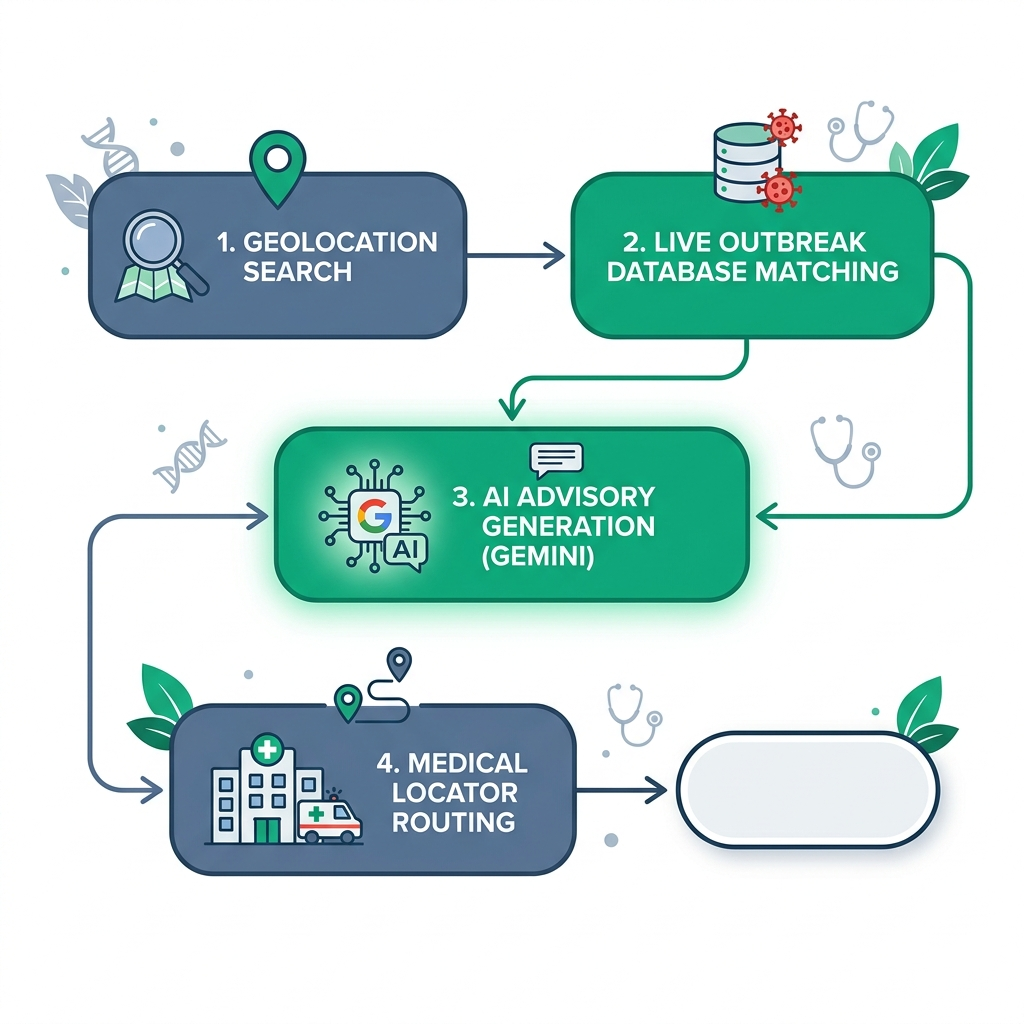
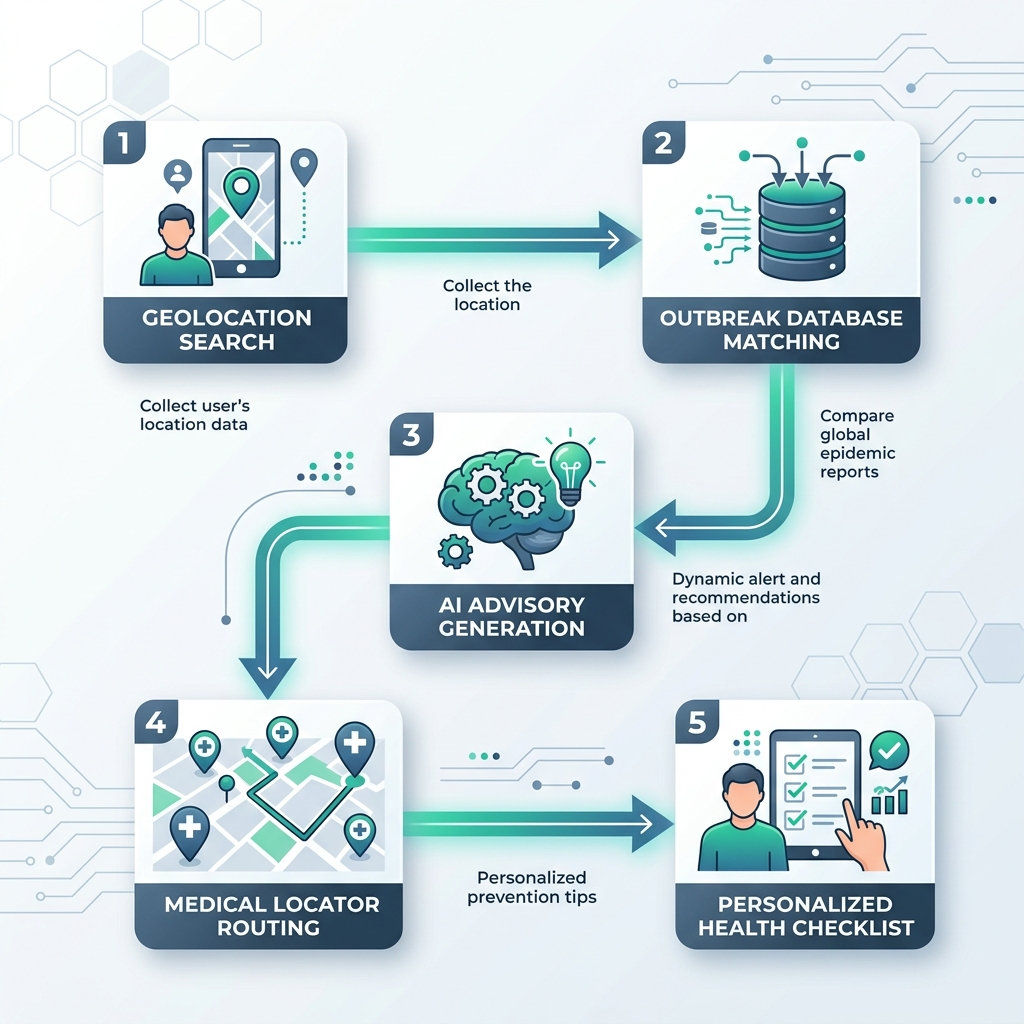
Refactor to make public health tracker global & complete workflow diagram

diff --git a/frontend/src/App.tsx b/frontend/src/App.tsx
@@ -86,7 +86,7 @@ interface DiseaseWiki {
 const TRANSLATIONS: Record<string, Record<string, string>> = {
   en: {
     appTitle: "Health Guardian",
-    subTitle: "Public Health AI (India)",
+    subTitle: "Global Public Health AI",
     home: "Home Dashboard",
     map: "Live Outbreak Map",
     wiki: "Disease Search",
@@ -98,7 +98,7 @@ const TRANSLATIONS: Record<string, Record<string, string>> = {
     riskLevel: "Infectious Risk Level",
     pathogens: "Active Pathogens",
     climate: "Climatic Index",
-    searchPlaceholder: "Search Indian city (e.g. Mumbai, Kochi)...",
+    searchPlaceholder: "Search global cities (e.g. Mumbai, Cairo, New York)...",
     gps: "Simulate GPS",
     emergency: "Emergency Numbers",
     langMode: "Language / भाषा",
@@ -133,7 +133,7 @@ const TRANSLATIONS: Record<string, Record<string, string>> = {
   },
   hi: {
     appTitle: "हेल्थ गार्जियन",
-    subTitle: "सार्वजनिक स्वास्थ्य एआई (भारत)",
+    subTitle: "वैश्विक सार्वजनिक स्वास्थ्य एआई",
     home: "मुख्य डैशबोर्ड",
     map: "लाइव प्रकोप मानचित्र",
     wiki: "बीमारी खोज",
@@ -145,7 +145,7 @@ const TRANSLATIONS: Record<string, Record<string, string>> = {
     riskLevel: "संक्रामक जोखिम स्तर",
     pathogens: "सक्रिय रोगजनक",
     climate: "जलवायु सूचकांक",
-    searchPlaceholder: "भारतीय शहर खोजें (जैसे मुंबई, कोच्चि)...",
+    searchPlaceholder: "वैश्विक शहर खोजें (जैसे मुंबई, काहिरा, न्यूयॉर्क)...",
     gps: "जीपीएस सिमुलेशन",
     emergency: "आपातकालीन नंबर",
     langMode: "भाषा / Language",
@@ -802,7 +802,7 @@ export default function App() {
               {activeTab === 'about' && (
                 <div className="bg-white dark:bg-slate-900 p-6 rounded-2xl border border-slate-200 dark:border-slate-800 shadow-sm space-y-5 animate-fade-in text-xs">
                   <h3 className="font-bold text-slate-800 dark:text-slate-200 text-sm flex items-center gap-1.5">
-                    <Shield className="w-5 h-5 text-sky-500" /> About Health Guardian AI (India)
+                    <Shield className="w-5 h-5 text-sky-500" /> About Health Guardian AI
                   </h3>
                   
                   <div className="space-y-3.5 text-slate-700 dark:text-slate-350 leading-relaxed">

diff --git a/frontend/src/components/TravelAdvisor.tsx b/frontend/src/components/TravelAdvisor.tsx
@@ -22,7 +22,8 @@ interface TravelAdvisorProps {
 
 const POPULAR_DESTINATIONS = [
   "New Delhi", "Mumbai", "Bengaluru", "Kolkata", "Chennai", 
-  "Hyderabad", "Kochi", "Jaipur", "Goa", "Srinagar"
+  "Hyderabad", "Kochi", "Jaipur", "Goa", "Srinagar",
+  "New York", "London", "Tokyo", "Sydney", "Cairo", "Rio de Janeiro", "Bangkok", "Nairobi"
 ];
 
 const AVAILABLE_VACCINES = [

diff --git a/backend/app/services/disease.py b/backend/app/services/disease.py
@@ -2,10 +2,10 @@ import random
 from typing import Dict, List, Optional
 from ..models import OutbreakDetail, WeatherSummary, LocationAdvisoryResponse
 
-# Pre-defined detailed disease data relevant to India
+# Pre-defined detailed disease data relevant globally
 DISEASE_LIBRARY: Dict[str, Dict] = {
     "Dengue": {
-        "description": "A mosquito-borne viral infection causing severe flu-like illness, primarily transmitted by Aedes aegypti mosquitoes. Highly active during and post-monsoon seasons across India.",
+        "description": "A mosquito-borne viral infection causing severe flu-like illness, primarily transmitted by Aedes aegypti mosquitoes. Highly active during and post-monsoon/rainy seasons across tropical and subtropical regions.",
         "symptoms": ["High fever", "Severe headache", "Pain behind the eyes", "Severe joint and muscle pain (breakbone fever)", "Nausea/vomiting", "Skin rash"],
         "transmission": "Bite of infected Aedes species mosquitoes, which breed in clean, standing water and are active mostly during the day.",
         "prevention": ["Use mosquito repellent (DEET/Picaridin)", "Wear full-sleeved shirts and long trousers", "Empty standing water from coolers, pots, and tires", "Install window meshes and use mosquito coils/nets"],
@@ -13,7 +13,7 @@ DISEASE_LIBRARY: Dict[str, Dict] = {
         "what_to_do": "Ensure complete rest, keep hydrated, and take paracetamol (acetaminophen) for fever. NEVER take aspirin, ibuprofen, or other NSAIDs, as they can cause severe internal bleeding. Seek immediate hospitalization if warning signs (abdominal pain, persistent vomiting, bleeding gums) develop."
     },
     "Malaria": {
-        "description": "A life-threatening disease caused by plasmodium parasites transmitted through the bites of infected female Anopheles mosquitoes. Common in urban slums and rural forested belts of India.",
+        "description": "A life-threatening disease caused by plasmodium parasites transmitted through the bites of infected female Anopheles mosquitoes. Common in tropical and subtropical regions globally.",
         "symptoms": ["Cyclical high fever", "Chills and shivering", "Profuse sweating", "Headache", "Fatigue", "Muscle pain"],
         "transmission": "Bite of infected female Anopheles mosquitoes, which breed in dirty, stagnant pools and bite mostly between dusk and dawn.",
         "prevention": ["Use insecticide-treated bed nets", "Apply DEET mosquito repellent", "Take preventive anti-malarial medication if advised", "Clear standing pools and spray larvicides"],
@@ -29,7 +29,7 @@ DISEASE_LIBRARY: Dict[str, Dict] = {
         "what_to_do": "No specific antiviral drug exists. Treatment focuses on symptom relief: hydration, rest, and paracetamol for joint pain and fever. Avoid NSAIDs until dengue is clinically ruled out."
     },
     "Cholera": {
-        "description": "An acute diarrheal infection caused by ingestion of food or water contaminated with the bacterium Vibrio cholerae. Outbreaks often happen in monsoon flooded regions with compromised sanitation.",
+        "description": "An acute diarrheal infection caused by ingestion of food or water contaminated with the bacterium Vibrio cholerae. Outbreaks often happen in flooded regions with compromised sanitation.",
         "symptoms": ["Sudden profuse watery diarrhea ('rice-water stools')", "Vomiting", "Severe muscle cramps", "Rapid dehydration", "Extreme thirst"],
         "transmission": "Ingestion of water or food contaminated with human feces containing the bacteria. Highly contagious.",
         "prevention": ["Drink only boiled, filtered, or bottled water", "Avoid raw, uncovered street foods", "Practice strict hand hygiene with soap before meals", "Receive oral cholera vaccination"],
@@ -37,7 +37,7 @@ DISEASE_LIBRARY: Dict[str, Dict] = {
         "what_to_do": "Initiate Oral Rehydration Salts (ORS) therapy immediately. Rehydration must start without delay to prevent hypovolemic shock. Seek emergency clinical care for intravenous fluids and antibiotics."
     },
     "Typhoid Fever": {
-        "description": "A systemic bacterial infection caused by Salmonella Typhi, spreading through contaminated water and food. Widely endemic across India, especially in areas with poor food handling.",
+        "description": "A systemic bacterial infection caused by Salmonella Typhi, spreading through contaminated water and food. Widely endemic globally, especially in areas with poor food handling.",
         "symptoms": ["Sustained high fever", "Severe headache", "Stomach pain and constipation or diarrhea", "Weakness and lethargy", "Rose spots rash on chest"],
         "transmission": "Fecal-oral route through contaminated food handler vectors or drinking water reservoirs.",
         "prevention": ["Get vaccinated against Typhoid", "Eat freshly prepared hot food", "Drink clean, purified water", "Avoid ice cubes and unpeeled fruits from local vendors"],
@@ -45,7 +45,7 @@ DISEASE_LIBRARY: Dict[str, Dict] = {
         "what_to_do": "Consult a physician for blood culture tests. Typhoid requires prescription antibiotics. Complete the entire course even if fever goes down. Practice strict hand hygiene to avoid infecting others."
     },
     "Leptospirosis": {
-        "description": "A bacterial disease contracted through contact with water or soil contaminated by urine of infected animals, primarily rodents. Outbreaks spike in cities like Mumbai during monsoon waterlogging.",
+        "description": "A bacterial disease contracted through contact with water or soil contaminated by urine of infected animals, primarily rodents. Outbreaks spike in waterlogged urban areas during rainy seasons.",
         "symptoms": ["High fever", "Severe headache and muscle pain (especially calves)", "Redness in eyes", "Abdominal pain", "Jaundice (yellow eyes/skin)"],
         "transmission": "Bacterial entry through cuts, eyes, or mouth during contact with floodwaters mixed with animal urine.",
         "prevention": ["Avoid wading in monsoon floodwaters", "Wear tall rubber boots and gloves if wading is unavoidable", "Wash hands and feet thoroughly with soap after outdoor exposure", "Control rodent infestation around houses"],
@@ -53,7 +53,7 @@ DISEASE_LIBRARY: Dict[str, Dict] = {
         "what_to_do": "Consult a doctor immediately. Leptospirosis can lead to kidney damage, meningitis, and liver failure if left untreated. Early treatment with antibiotics (such as doxycycline or penicillin) is highly effective."
     },
     "Tuberculosis (TB)": {
-        "description": "A major public health challenge in India, caused by Mycobacterium tuberculosis. It primary affects the lungs and spreads through airborne respiratory droplets.",
+        "description": "A major public health challenge globally, caused by Mycobacterium tuberculosis. It primarily affects the lungs and spreads through airborne respiratory droplets.",
         "symptoms": ["Persistent cough for more than 2-3 weeks", "Coughing up blood (hemoptysis)", "Chest pain", "Fever (especially evening rise)", "Night sweats", "Unexplained weight loss"],
         "transmission": "Inhalation of microscopic droplets expelled when an active TB patient coughs, sneezes, or speaks.",
         "prevention": ["Ensure BCG vaccination for infants", "Maintain good ventilation in living quarters", "Practice cough etiquette (covering mouth)", "Avoid close prolonged contact with active untreated patients"],
@@ -61,7 +61,7 @@ DISEASE_LIBRARY: Dict[str, Dict] = {
         "what_to_do": "Get sputum testing and chest X-rays immediately if experiencing a chronic cough. Undergo free screening and multi-month DOTS treatment available via government health centers."
     },
     "Influenza": {
-        "description": "A contagious viral respiratory disease spreading seasonally, peaking in India during winter months and monsoons.",
+        "description": "A contagious viral respiratory disease spreading seasonally, peaking during winter months and rainy seasons globally.",
         "symptoms": ["Fever", "Dry cough", "Sore throat", "Runny or stuffy nose", "Body aches", "Headaches", "Fatigue"],
         "transmission": "Inhalation of respiratory droplets or touching virus-contaminated surfaces.",
         "prevention": ["Annual seasonal influenza vaccination", "Frequent handwashing with soap", "Avoid touching eyes/nose/mouth", "Cover mouth during coughs"],
@@ -70,7 +70,7 @@ DISEASE_LIBRARY: Dict[str, Dict] = {
     }
 }
 
-# Indian cities mock database
+# Global cities mock database
 CITIES_DB = {
     "new delhi": {
         "city": "New Delhi",
@@ -286,6 +286,167 @@ CITIES_DB = {
             "wind_speed": 9.0,
             "alert": "Cold temperatures drive social activities indoors. Protect against seasonal influenza by taking general hygiene precautions."
         }
+    },
+    "new york": {
+        "city": "New York",
+        "country": "United States",
+        "risk_level": "Low",
+        "risk_score": 1.8,
+        "lat": 40.7128,
+        "lon": -74.0060,
+        "emergency_contacts": {
+            "Emergency Services": "911",
+            "NYC Health Dept Helpline": "311",
+            "Poison Control Center": "1-800-222-1222"
+        },
+        "outbreaks": ["Influenza"],
+        "weather": {
+            "temp": 22.0,
+            "condition": "Clear Sky",
+            "humidity": 50,
+            "wind_speed": 10.5,
+            "alert": "Low risk profile. Standard seasonal respiratory precautions are suggested in crowded indoor spaces."
+        }
+    },
+    "london": {
+        "city": "London",
+        "country": "United Kingdom",
+        "risk_level": "Low",
+        "risk_score": 1.9,
+        "lat": 51.5074,
+        "lon": -0.1278,
+        "emergency_contacts": {
+            "Emergency Services": "999 / 112",
+            "NHS Health Advisory": "111"
+        },
+        "outbreaks": ["Influenza"],
+        "weather": {
+            "temp": 18.0,
+            "condition": "Partly Cloudy",
+            "humidity": 62,
+            "wind_speed": 12.0,
+            "alert": "Mild seasonal virus activity. Observe standard hygiene protocols."
+        }
+    },
+    "tokyo": {
+        "city": "Tokyo",
+        "country": "Japan",
+        "risk_level": "Low",
+        "risk_score": 1.4,
+        "lat": 35.6762,
+        "lon": 139.6503,
+        "emergency_contacts": {
+            "Fire & Ambulance": "119",
+            "Police Department": "110"
+        },
+        "outbreaks": ["Influenza"],
+        "weather": {
+            "temp": 26.5,
+            "condition": "Humid / Warm",
+            "humidity": 70,
+            "wind_speed": 8.5,
+            "alert": "Low threat level. Hand sanitizing stations are widely available."
+        }
+    },
+    "sydney": {
+        "city": "Sydney",
+        "country": "Australia",
+        "risk_level": "Low",
+        "risk_score": 1.6,
+        "lat": -33.8688,
+        "lon": 151.2093,
+        "emergency_contacts": {
+            "Emergency Services": "000",
+            "Healthdirect Line": "1800 022 222"
+        },
+        "outbreaks": ["Influenza"],
+        "weather": {
+            "temp": 16.0,
+            "condition": "Cool / Clear",
+            "humidity": 55,
+            "wind_speed": 15.0,
+            "alert": "Standard winter influenza season. Vaccinations are recommended."
+        }
+    },
+    "cairo": {
+        "city": "Cairo",
+        "country": "Egypt",
+        "risk_level": "Medium",
+        "risk_score": 4.1,
+        "lat": 30.0444,
+        "lon": 31.2357,
+        "emergency_contacts": {
+            "Emergency Ambulance": "123",
+            "Tourist Police": "126"
+        },
+        "outbreaks": ["Typhoid Fever", "Influenza"],
+        "weather": {
+            "temp": 32.0,
+            "condition": "Sunny and Dusty",
+            "humidity": 40,
+            "wind_speed": 11.5,
+            "alert": "Moderate risk of foodborne illnesses in summer. Stick to bottled water and hot, freshly prepared foods."
+        }
+    },
+    "rio de janeiro": {
+        "city": "Rio de Janeiro",
+        "country": "Brazil",
+        "risk_level": "Medium",
+        "risk_score": 5.4,
+        "lat": -22.9068,
+        "lon": -43.1729,
+        "emergency_contacts": {
+            "Ambulance (SAMU)": "192",
+            "Police Department": "190"
+        },
+        "outbreaks": ["Dengue", "Influenza"],
+        "weather": {
+            "temp": 27.0,
+            "condition": "Warm and Showery",
+            "humidity": 82,
+            "wind_speed": 9.5,
+            "alert": "Increased Dengue mosquito breeding activity reported. Wear repellents during outdoor activities."
+        }
+    },
+    "bangkok": {
+        "city": "Bangkok",
+        "country": "Thailand",
+        "risk_level": "Medium",
+        "risk_score": 5.8,
+        "lat": 13.7563,
+        "lon": 100.5018,
+        "emergency_contacts": {
+            "Ambulance & Rescue": "1669",
+            "Tourist Police": "1155"
+        },
+        "outbreaks": ["Dengue", "Typhoid Fever", "Influenza"],
+        "weather": {
+            "temp": 30.5,
+            "condition": "Tropical Rains",
+            "humidity": 85,
+            "wind_speed": 12.0,
+            "alert": "Heavy rains increase standing water and mosquito breeding. Enteric disease precautions advised."
+        }
+    },
+    "nairobi": {
+        "city": "Nairobi",
+        "country": "Kenya",
+        "risk_level": "High",
+        "risk_score": 7.8,
+        "lat": -1.2921,
+        "lon": 36.8219,
+        "emergency_contacts": {
+            "Emergency Ambulance": "999 / 112",
+            "Red Cross Hotline": "1501"
+        },
+        "outbreaks": ["Malaria", "Cholera", "Typhoid Fever"],
+        "weather": {
+            "temp": 21.0,
+            "condition": "Overcast",
+            "humidity": 75,
+            "wind_speed": 10.0,
+            "alert": "Cholera alerts in informal sectors. Malaria prophylaxis recommended. Consume only safe, purified drinking water."
+        }
     }
 }
 
@@ -359,9 +520,9 @@ class DiseaseService:
     def _generate_dynamic_advisory(cls, city_name: str) -> LocationAdvisoryResponse:
         cleaned_name = city_name.strip().title()
         
-        # Determine coordinate offsets around Indian subcontinent latitudes
-        lat = round(random.uniform(8.4, 34.5), 4)
-        lon = round(random.uniform(68.7, 97.2), 4)
+        # Determine coordinate offsets around global latitudes and longitudes
+        lat = round(random.uniform(-40.0, 60.0), 4)
+        lon = round(random.uniform(-120.0, 140.0), 4)
         
         risk_level = random.choice(["Low", "Medium"])
         risk_score = round(random.uniform(1.2, 4.8), 1)
@@ -388,21 +549,20 @@ class DiseaseService:
         
         return LocationAdvisoryResponse(
             city=cleaned_name,
-            country="India Region",
+            country="Global Region",
             risk_level=risk_level,
             risk_score=risk_score,
             active_outbreaks=active_outbreaks,
             weather=WeatherSummary(
-                temp=28.0,
+                temp=24.0,
                 condition="Standard Regional Weather",
-                humidity=60,
-                wind_speed=11.0,
-                alert="Routine local healthcare parameters. Keep vaccinations updated and use mosquito controls during rainfall."
+                humidity=55,
+                wind_speed=12.0,
+                alert="Routine local healthcare parameters. Keep vaccinations updated and observe local health warnings."
             ),
             emergency_contacts={
-                "National Emergency": "112",
-                "Health Support": "104",
-                "Ambulance": "108"
+                "Emergency Line": "112 / 911",
+                "Local Health Agency": "Consult local guide"
             },
             lat=lat,
             lon=lon

diff --git a/README.md b/README.md
@@ -1,8 +1,8 @@
-# Health Guardian AI 🛡️ (Indian Edition)
+# Health Guardian AI 🛡️
 
-**Health Guardian AI** is a professional-grade public health awareness assistant designed for residents and travelers in India. It detects active location risks, presents local disease outbreaks on dynamic map overlays, schedules preventative travel guides, and queries nearby hospital coordinates.
+**Health Guardian AI** is a professional-grade public health awareness assistant designed for residents and travelers globally. It detects active location risks, presents local disease outbreaks on dynamic map overlays, schedules preventative travel guides, and queries nearby hospital coordinates.
 
-It is built to operate under monsoon-spiked vector/waterborne risks (Dengue, Malaria, Leptospirosis, Typhoid, Chikungunya, and TB) and provides instant multilingual support in both English and Hindi.
+It is built to operate under severe vector-borne and waterborne risks (such as Dengue, Malaria, Leptospirosis, Typhoid, Chikungunya, and TB) and provides instant multilingual support including English and Hindi.
 
 ---
 
@@ -16,13 +16,13 @@ Here is the operational logic of the Health Guardian AI assistant system:
 
 ## Key Features
 
-1. **Monsoon Disease Monitoring**: Tracks regional Indian outbreaks (like Dengue and Malaria, as well as Leptospirosis outbreaks in Mumbai, and Chikungunya in Chennai).
+1. **Epidemic & Outbreak Monitoring**: Tracks regional disease outbreaks (like Dengue and Malaria, as well as Leptospirosis and Chikungunya).
 2. **AI Public Health Assistant**: Conversational agent powered by the **Google Gemini API** (`gemini-1.5-flash`) delivering location-sensitive prevention recommendations and clinical guidelines. Includes a high-fidelity local simulator for offline testing.
 3. **Multilingual Interface**: Bilingual translation toggle in **English** and **Hindi (हिंदी)** for local public health accessibility.
 4. **GIS Hospital Locator**: Real-time hospital lookup using the **OpenStreetMap Overpass API** with custom maps showing 24/7 emergency rooms and pediatric clinics.
 5. **Interactive Outbreak Maps**: Visualizes circular outbreak risk ranges and active cases using **Leaflet.js** maps.
 6. **Travel Health Advisor**: Generates custom preventative checklists (vaccine check logs, DEET repellents, water purification) relative to destination risks.
-7. **Emergency Helpline Numbers**: Regional numbers (CATS Ambulance `108`, Health Helpline `104`, Delhi Police `100`, etc.) active in India.
+7. **Emergency Helpline Numbers**: Regional emergency numbers active in various countries and locations.
 
 ---
 